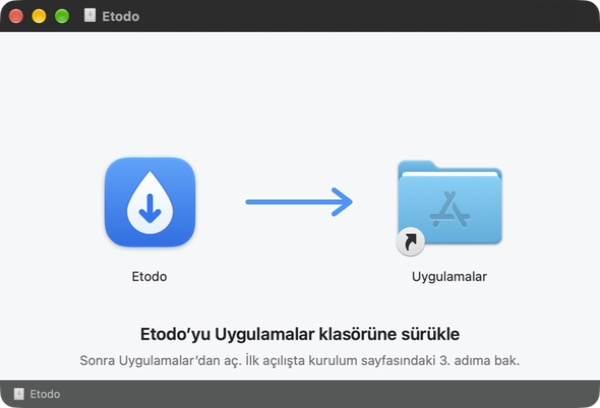
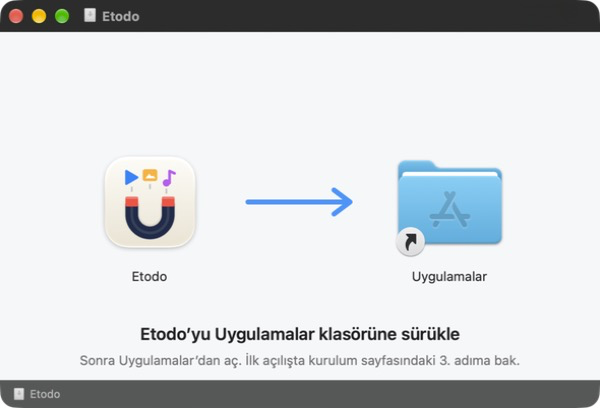
feat: yeni uygulama simgesi (Mıknatıs: video, fotoğraf, müzik)

Changed region(s): [[0.15, 0.3824, 0.33, 0.6176]]

diff --git a/scripts/make-icon.swift b/scripts/make-icon.swift
@@ -1,4 +1,4 @@
-// Etodo uygulama simgesi (logo B · Damla). Kullanım: swift scripts/make-icon.swift <çıktı klasörü>
+// Etodo uygulama simgesi (logo C · Mıknatıs ve üçlü: video, fotoğraf, müzik). Kullanım: swift scripts/make-icon.swift <çıktı klasörü>
 import AppKit
 
 let out = URL(fileURLWithPath: CommandLine.arguments[1], isDirectory: true)
@@ -19,44 +19,83 @@ func render(_ px: Int) -> Data {
     let shape = CGPath(roundedRect: bodyRect, cornerWidth: body * 0.225, cornerHeight: body * 0.225, transform: nil)
 
     ctx.saveGState()
-    ctx.setShadow(offset: CGSize(width: 0, height: s * 10 / 1024), blur: s * 24 / 1024, color: color(0x000000, 0.28))
-    ctx.addPath(shape); ctx.setFillColor(color(0x0A84FF)); ctx.fillPath()
+    ctx.setShadow(offset: CGSize(width: 0, height: s * 10 / 1024), blur: s * 24 / 1024, color: color(0x000000, 0.25))
+    ctx.addPath(shape); ctx.setFillColor(color(0xF5F1E8)); ctx.fillPath()
     ctx.restoreGState()
 
     ctx.saveGState()
     ctx.addPath(shape); ctx.clip()
-    let bg = CGGradient(colorsSpace: nil, colors: [color(0x48A4FF), color(0x0A6FE8)] as CFArray, locations: [0, 1])!
+    let bg = CGGradient(colorsSpace: nil, colors: [color(0xFDFBF6), color(0xEAE3D2)] as CFArray, locations: [0, 1])!
     ctx.drawLinearGradient(bg, start: CGPoint(x: 0, y: inset), end: CGPoint(x: 0, y: inset + body), options: [])
     ctx.restoreGState()
 
     func p(_ x: CGFloat, _ y: CGFloat) -> CGPoint { CGPoint(x: inset + x * body / 100, y: inset + y * body / 100) }
-    let k: CGFloat = 25 * 0.5523
-    let drop = CGMutablePath()
-    drop.move(to: p(50, 16))
-    drop.addCurve(to: p(75, 60), control1: p(50, 16), control2: p(75, 45))
-    drop.addCurve(to: p(50, 85), control1: p(75, 60 + k), control2: p(50 + k, 85))
-    drop.addCurve(to: p(25, 60), control1: p(50 - k, 85), control2: p(25, 60 + k))
-    drop.addCurve(to: p(50, 16), control1: p(25, 45), control2: p(50, 16))
-    drop.closeSubpath()
+    func u(_ v: CGFloat) -> CGFloat { v * body / 100 }
+    let small = px <= 32
 
-    ctx.saveGState()
-    ctx.setShadow(offset: CGSize(width: 0, height: s * 8 / 1024), blur: s * 20 / 1024, color: color(0x003A80, 0.30))
-    ctx.addPath(drop); ctx.setFillColor(.white); ctx.fillPath()
-    ctx.restoreGState()
-    ctx.saveGState()
-    ctx.addPath(drop); ctx.clip()
-    let shine = CGGradient(colorsSpace: nil, colors: [color(0xFFFFFF), color(0xE3F0FF)] as CFArray, locations: [0, 1])!
-    ctx.drawLinearGradient(shine, start: p(50, 16), end: p(50, 85), options: [])
-    ctx.restoreGState()
+    // Çekim çizgileri: içerik mıknatısa doğru akıyor (küçük boyutta çizilmez).
+    if !small {
+        let lines = CGMutablePath()
+        for (x, y0) in [(30.0, 34.0), (50.0, 31.0), (68.0, 36.0)] {
+            lines.move(to: p(x, y0)); lines.addLine(to: p(x, y0 + 4))
+        }
+        ctx.addPath(lines)
+        ctx.setStrokeColor(color(0x1E2B4A, 0.22)); ctx.setLineWidth(u(2)); ctx.setLineCap(.round)
+        ctx.strokePath()
+    }
 
-    let arrow = CGMutablePath()
-    arrow.move(to: p(50, 44)); arrow.addLine(to: p(50, 70))
-    arrow.move(to: p(41, 61)); arrow.addLine(to: p(50, 70)); arrow.addLine(to: p(59, 61))
-    ctx.addPath(arrow)
-    ctx.setStrokeColor(color(0x0A78F5))
-    ctx.setLineWidth(body * (px <= 32 ? 0.085 : 0.065))
-    ctx.setLineCap(.round); ctx.setLineJoin(.round)
+    // Mıknatıs gövdesi
+    let k: CGFloat = 20 * 0.5523
+    let magnet = CGMutablePath()
+    magnet.move(to: p(30, 52)); magnet.addLine(to: p(30, 64))
+    magnet.addCurve(to: p(50, 84), control1: p(30, 64 + k), control2: p(50 - k, 84))
+    magnet.addCurve(to: p(70, 64), control1: p(50 + k, 84), control2: p(70, 64 + k))
+    magnet.addLine(to: p(70, 52))
+    ctx.saveGState()
+    ctx.setShadow(offset: CGSize(width: 0, height: u(1.2)), blur: u(2.4), color: color(0x000000, 0.22))
+    ctx.addPath(magnet)
+    ctx.setStrokeColor(color(0x1E2B4A)); ctx.setLineWidth(u(small ? 16 : 14)); ctx.setLineCap(.butt)
     ctx.strokePath()
+    ctx.restoreGState()
+    // üstte ince parlama
+    ctx.addPath(magnet)
+    ctx.setStrokeColor(color(0xFFFFFF, 0.10)); ctx.setLineWidth(u(3))
+    ctx.strokePath()
+
+    // Kırmızı uçlar
+    for x: CGFloat in [23, 63] {
+        let tip = CGPath(roundedRect: CGRect(origin: p(x - (small ? 0.5 : 0), 44), size: CGSize(width: u(small ? 15 : 14), height: u(11))),
+                         cornerWidth: u(1.5), cornerHeight: u(1.5), transform: nil)
+        ctx.addPath(tip); ctx.setFillColor(color(0xFF453A)); ctx.fillPath()
+        ctx.addRect(CGRect(origin: p(x, 44), size: CGSize(width: u(14), height: u(2.5))))
+        ctx.setFillColor(color(0xFFFFFF, 0.28)); ctx.fillPath()
+    }
+
+    // Video (oynat)
+    let play = CGMutablePath()
+    play.move(to: p(24, 16)); play.addLine(to: p(24, 30)); play.addLine(to: p(36, 23)); play.closeSubpath()
+    ctx.addPath(play); ctx.setFillColor(color(0x0A84FF)); ctx.setStrokeColor(color(0x0A84FF))
+    ctx.setLineWidth(u(2.5)); ctx.setLineJoin(.round)
+    ctx.drawPath(using: .fillStroke)
+
+    // Fotoğraf
+    let photo = CGPath(roundedRect: CGRect(origin: p(42, 14), size: CGSize(width: u(16), height: u(13))),
+                       cornerWidth: u(2.5), cornerHeight: u(2.5), transform: nil)
+    ctx.addPath(photo); ctx.setFillColor(color(0xFFB020)); ctx.fillPath()
+    if !small {
+        let mountain = CGMutablePath()
+        mountain.move(to: p(45, 24)); mountain.addLine(to: p(49, 19)); mountain.addLine(to: p(52, 22))
+        mountain.addLine(to: p(53.5, 21)); mountain.addLine(to: p(56, 24)); mountain.closeSubpath()
+        ctx.addPath(mountain); ctx.setFillColor(.white); ctx.fillPath()
+    }
+
+    // Müzik notası
+    ctx.addEllipse(in: CGRect(origin: p(64, 25), size: CGSize(width: u(8), height: u(8))))
+    ctx.setFillColor(color(0xBF5AF2)); ctx.fillPath()
+    let stem = CGMutablePath()
+    stem.move(to: p(71.5, 29)); stem.addLine(to: p(71.5, 16)); stem.addLine(to: p(77, 18.5))
+    ctx.addPath(stem); ctx.setStrokeColor(color(0xBF5AF2)); ctx.setLineWidth(u(3))
+    ctx.setLineCap(.round); ctx.setLineJoin(.round); ctx.strokePath()
 
     let rep = NSBitmapImageRep(cgImage: ctx.makeImage()!)
     return rep.representation(using: .png, properties: [:])!
